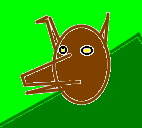
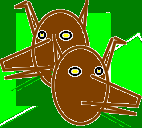
Fixed Stats calculation Updated README and added screenshots Works!

diff --git a/js/app.js b/js/app.js
@@ -55,41 +55,35 @@ class Game {
         this.inspections = [] ;
     }
 
-    left(i) {
-        if ( i==0 ) {
-            return H.value-1;
-        } else {
-            return i-1;
-        }
+    escapes (i) { // returns an array of landing spots
+        return [
+            i==0 ? H.value-1 : i-1,
+            i==H.value -1 ? 0 : i+1,
+            ] ;
     }
 
-    right(i) {
-        if ( i == H.value-1 ) {
-            return 0;
-        } else {
-            return i+1;
-        }
-    }
-
-    move( holes ) {
+    move( holes ) { // holes is an array
         // inspections are 0-based
         this.inspections[this.date] = holes ;
-        console.log(this.inspections);
         this.date += 1;
+
         // use previous fox locations
         let old_locations = this.fox_history[this.date-1].slice() ;
         let old_stats = this.stats_history[this.date-1].slice() ;
+
         // exclude inspected hole
         holes.forEach( h => {
             old_locations[h] = false ;
             old_stats[h] = 0. ;
             });
 
-        let current_fox = [] ;
-        let current_stats = [] ;
+        let current_fox = Array(H.value).fill(false) ;
+        let current_stats = Array(H.value).fill(0) ;
+        
         for ( let h = 0 ; h < H.value ; ++h ) {
-            current_fox[h] = old_locations[this.left(h)] || old_locations[this.right(h)] ;
-            current_stats[h] = old_stats[this.left(h)]*.5 + old_stats[this.right(h)]*.5 ;
+            let e = this.escapes(h) ; // where fox can go
+            e.forEach( ee => current_fox[h] ||= old_locations[ee] );
+            e.forEach( ee => current_stats[h] += old_stats[ee]/e.length );
         }
         // store
         this.fox_history[this.date] = current_fox;
@@ -198,7 +192,6 @@ class Table {
     }
 
     back() {
-        console.log(G.day);
         if ( G.day < 2 ) {
             this.start() ;
         } else {
@@ -211,7 +204,7 @@ class Table {
     }
 
     update() {
-        document.getElementById("raided").value=G.day;
+        document.getElementById("raided").value=G.day*2;
         if ( this.stats ) {
             let p = this.thead.firstElementChild.childNodes;
             G.stats.forEach( (v,i) => p[i+1].innerText = v.toFixed(3) );

diff --git a/index.html b/index.html
@@ -30,7 +30,7 @@
         </header>
         <table id="Ttable">
             <caption>
-                Foxhole game play
+                DoubleFox game play
             </caption>
             <thead>
             </thead>

diff --git a/README.md b/README.md
@@ -1,33 +1,62 @@
-# Foxholes
+![](images/icon.png)
 
-![Foxhole puzzle](images/foz-puzzle.jpeg)
+# Doublefox
+
+This is an extension of the [Foxhole game](https://alfille.github.io/foxhole.github.io/) sent to me by my friend DSK.
+
+![Doublefox puzzle](images/DFgame.png)
 
 ## Quick link:
-[Foxholes](https://alfille.github.io/foxholes.github.io/)
+[Try Doublefox online now](https://alfille.github.io/doublefox.github.io/)
 
 ## Summary
 
 This program is a way to test strategies.
 
+The game is the catch a fox who must move between your hole inspections. The fox moves one hole in either direction. You can look at 2 holes each day.
+
+## Schrödinger's fox
+
+The program shows a [superposition](https://en.wikipedia.org/wiki/Schr%C3%B6dinger%27s_cat) of all the positions the fox could be hiding. Your checking of the holes helps collapse the possibilities.
+
 ## Screenshots
 
-![](images/FH.png)
-Initial screen showing game controls and start of standard (5 hole) game.
+![](images/DF0.png)
 
-![](images/FH7.png)
-You can change the number of foxholes to add interest.
+The initial game screen.
 
-![](images/FHstats.png)
-Choosing probabilities adds the chance that a randomly placed and moving fox is in this hole (after you tried to catch them).
+![](images/DFareas.png)
 
-![](images/FHmove.png)
-You actually play the game by choosing to inspect a hole (one of the "?" buttons).
-The next row shows where the uncaught foxes could move to.
+The controls are above, and the game is played below.
 
+![](images/DFholes.png)
+
+You can choose the number of foxholes
+
+![](images/DFchoose1.png)
+
+You check off the holes you want to inspect.
+
+![](images/DFround.png)
+
+Checking 2 holes is enough for one day!
+
+The fox then moves overnight and you have to look again.
+
+![](images/DFstats.png)
+
+How likely is the fox to be in this hole?
+
+
+## Other games
+
+If you haven't tried [Foxholes](https://alfille.github.io/foxhole.github.io/), you should. The game is very similar, but the strategy strikingly different.
 
 ## Platform
 
-Pure *Javascript* in any browser.
+Pure *Javascript* in any (modern) browser.
+
+Runs in the browser, so low bandwidth. No advertising. Just Free.
 
 ## Author
 
@@ -36,3 +65,7 @@ Paul Alfille paul.alfille@gmail.com
 ## License
 
 MIT (free for any use)
+
+## Code
+
+[Freely available](https://github.com/alfille/doublefox.github.io)
